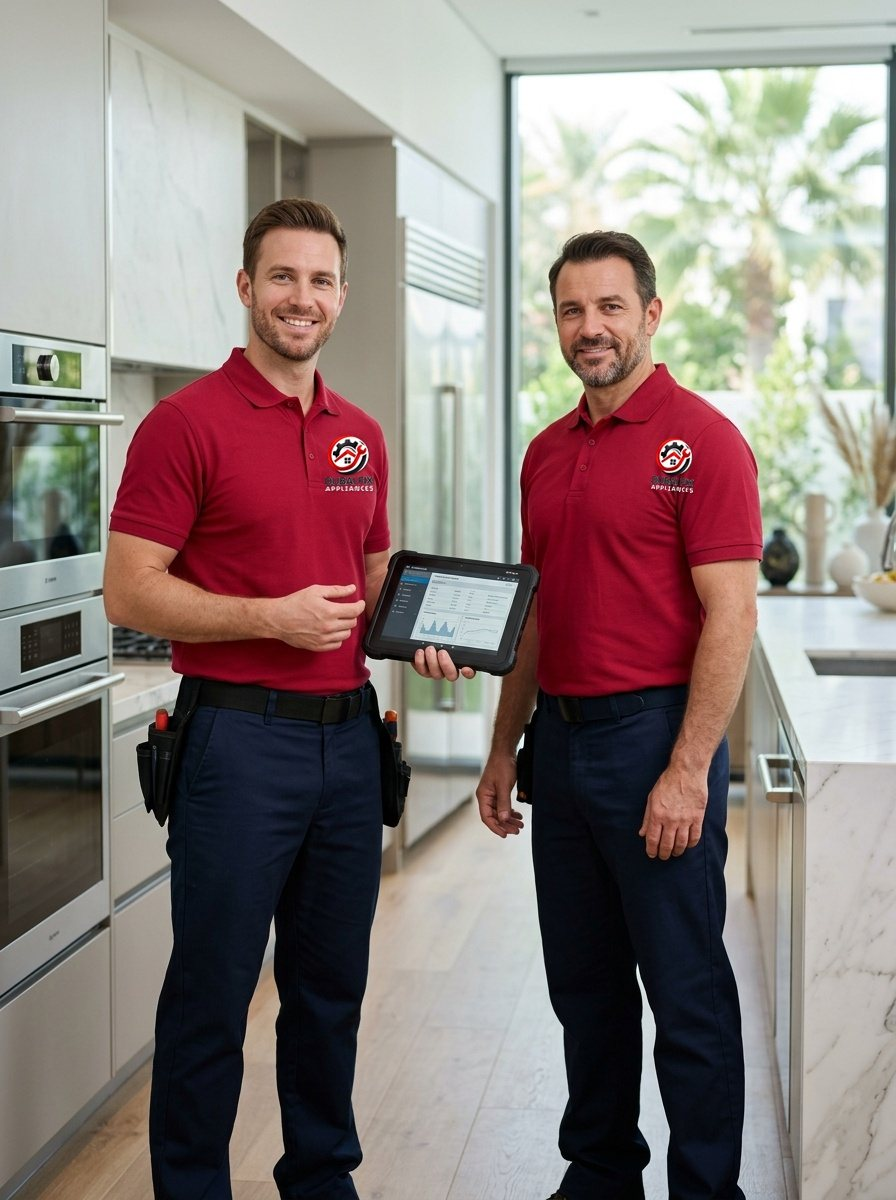
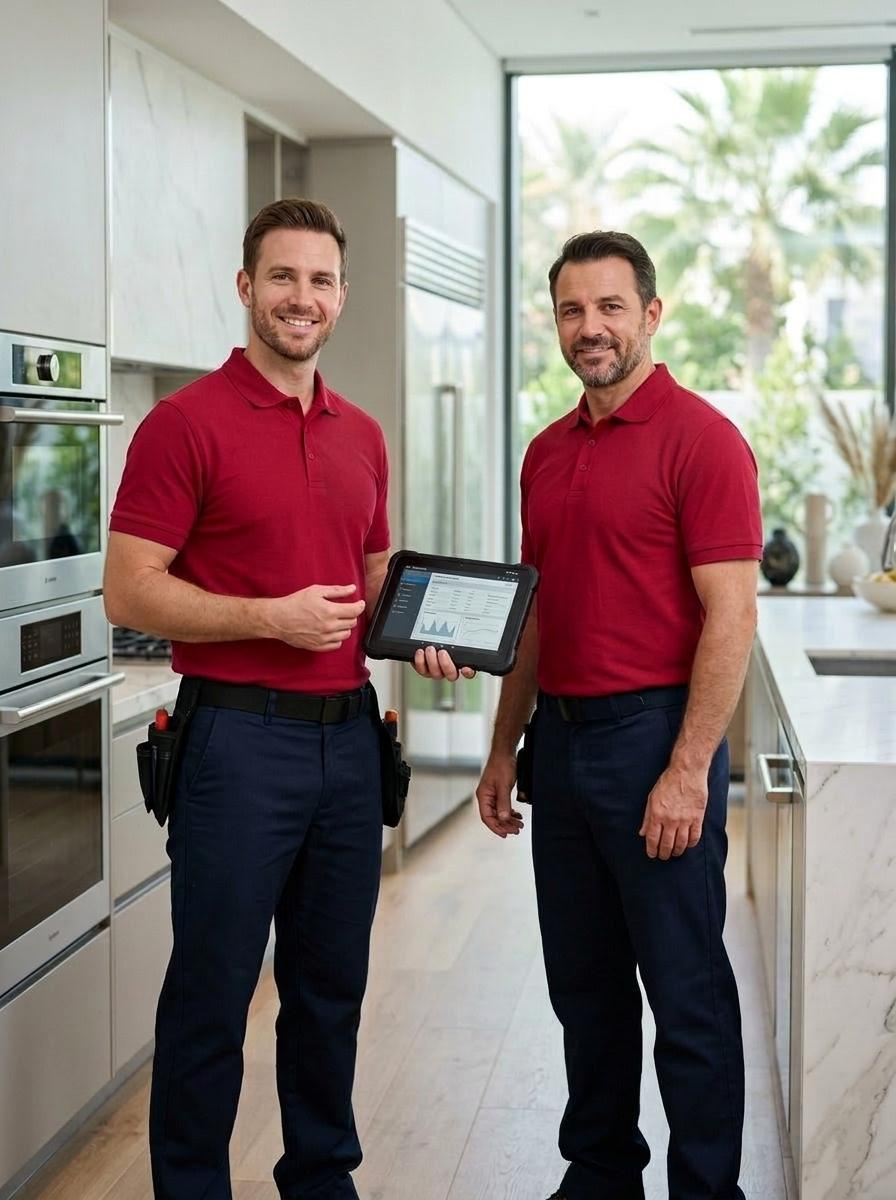
fix(portfolio): apply Option 2 sleek modern open-stroke directional arrow to hero secondary CTA

Changed region(s): [[0.3438, 0.3392, 0.4375, 0.4317], [0.7188, 0.37, 0.7812, 0.4317]]

diff --git a/styles.css b/styles.css
@@ -158,20 +158,11 @@ body {
   border-color: #e3e7e9;
   box-shadow: 0 12px 32px -4px rgba(0, 0, 0, 0.12);
 }
-/* Top viewport scroll mask: seamlessly covers the 14px gap above floating navbar so text never bleeds through */
-body::before {
-  content: "";
-  position: fixed;
-  top: 0;
-  left: 0;
-  right: 0;
-  height: 14px;
-  background-color: var(--bg-canvas, #fbfbfe);
-  z-index: 999;
-  pointer-events: none;
-}
+/* Top viewport scroll mask removed: eliminates top space and scroll cutting */
+body::before,
 body.dark-theme::before {
-  background-color: #0f1315;
+  content: none !important;
+  display: none !important;
 }
 body.dark-theme .navbar {
   background: rgba(23, 28, 31, 0.88);
@@ -872,7 +863,7 @@ body.dark-theme .dropdown-divider {
   transition: color 0.42s cubic-bezier(0.25, 0.46, 0.45, 0.94) !important;
 }
 
-.btn-hero-secondary svg {
+.btn-hero-secondary svg:not(.btn-arrow-icon) {
   color: #16a34a;
   stroke: #16a34a;
   fill: currentColor;
@@ -887,11 +878,61 @@ body.dark-theme .dropdown-divider {
 .btn-hero-secondary:hover > span {
   color: #ffffff !important;
 }
-.btn-hero-secondary:hover svg {
+.btn-hero-secondary:hover svg:not(.btn-arrow-icon) {
   animation: none !important;
   color: #ffffff !important;
   fill: #ffffff !important;
   stroke: #ffffff !important;
+}
+
+/* Option 2 Standard: Sleek Modern Open-Stroke Directional Arrow (Clean & Minimal, No Circle) */
+.btn-hero-secondary .btn-arrow-icon,
+.btn-hero-secondary svg.btn-arrow-icon,
+.btn-arrow-icon {
+  width: 15px !important;
+  height: 15px !important;
+  min-width: 15px !important;
+  min-height: 15px !important;
+  color: #16a34a !important;
+  stroke: #16a34a !important;
+  fill: none !important;
+  stroke-width: 2.2 !important;
+  display: inline-block !important;
+  vertical-align: middle !important;
+  flex-shrink: 0 !important;
+  position: relative !important;
+  z-index: 3 !important;
+  animation: none !important;
+  transform: none !important;
+  transform-origin: center center !important;
+  transition:
+    transform 0.45s cubic-bezier(0.25, 0.46, 0.45, 0.94),
+    stroke 0.38s cubic-bezier(0.25, 0.46, 0.45, 0.94),
+    color 0.38s cubic-bezier(0.25, 0.46, 0.45, 0.94) !important;
+}
+
+.btn-hero-secondary:hover .btn-arrow-icon,
+.btn-hero-secondary:hover svg.btn-arrow-icon {
+  color: #ffffff !important;
+  stroke: #ffffff !important;
+  fill: none !important;
+  transform: translateX(4px) !important;
+  animation: none !important;
+}
+
+body.dark-theme .btn-hero-secondary .btn-arrow-icon,
+body.dark-theme .btn-hero-secondary svg.btn-arrow-icon {
+  color: #25d366 !important;
+  stroke: #25d366 !important;
+  fill: none !important;
+}
+
+body.dark-theme .btn-hero-secondary:hover .btn-arrow-icon,
+body.dark-theme .btn-hero-secondary:hover svg.btn-arrow-icon {
+  color: #ffffff !important;
+  stroke: #ffffff !important;
+  fill: none !important;
+  transform: translateX(4px) !important;
 } /* ==========================================================================   Universal Button Animation & Interaction Suite (Hero-Quality Everywhere)   ========================================================================== */ /* Zero Idle Float Animation Standard: Buttons sit grounded, calm, and stable without floating */
 @keyframes primaryButtonPulseLoop {
   0%, 50%, 100% {
@@ -973,7 +1014,7 @@ body.dark-theme .dropdown-divider {
 /* Master Synchronized Ambient Phone Vibration on all Phone Icon Buttons */
 .btn-schedule svg,
 .nav-menu-schedule-btn svg,
-.btn-hero-secondary svg,
+.btn-hero-secondary svg:not(.btn-arrow-icon),
 .btn-hero-action-call svg,
 .btn-about-secondary svg,
 .btn-dispatch-call svg,
@@ -1016,7 +1057,7 @@ button[id*="phone"] svg {
 /* Responsive Active Ring Vibration on Hover */
 .btn-schedule:hover svg,
 .nav-menu-schedule-btn:hover svg,
-.btn-hero-secondary:hover svg,
+.btn-hero-secondary:hover svg:not(.btn-arrow-icon),
 .btn-hero-action-call:hover svg,
 .btn-about-secondary:hover svg,
 .btn-dispatch-call:hover svg,
@@ -8013,11 +8054,27 @@ body.dark-theme .prefooter-cta-overlay {
   flex-shrink: 0;
   transition: all 0.25s ease;
 }
-.footer-contact-item:hover .footer-contact-icon {
+.footer-contact-item:has(.contact-link):hover .footer-contact-icon {
   background-color: #ffffff;
   border-color: #ffffff;
   color: var(--brand-accent);
   transform: scale(1.08);
+}
+.footer-contact-item.footer-contact-static,
+.footer-contact-item.footer-contact-static .footer-contact-icon,
+.footer-contact-item.footer-contact-static .contact-value,
+.footer-contact-item:not(:has(.contact-link)),
+.footer-contact-item:not(:has(.contact-link)) .footer-contact-icon,
+.footer-contact-item:not(:has(.contact-link)) .contact-value {
+  cursor: default;
+}
+.footer-contact-item.footer-contact-static:hover .footer-contact-icon,
+.footer-contact-item:not(:has(.contact-link)):hover .footer-contact-icon {
+  background-color: rgba(255, 255, 255, 0.12) !important;
+  border-color: rgba(255, 255, 255, 0.2) !important;
+  color: #ffffff !important;
+  transform: none !important;
+  cursor: default !important;
 }
 .footer-contact-info {
   display: flex;
@@ -11490,7 +11547,7 @@ body.dark-theme .btn-about-secondary span:not(.btn-circle) {
   color: #25d366 !important;
   transition: color 0.42s cubic-bezier(0.25, 0.46, 0.45, 0.94) !important;
 }
-body.dark-theme .btn-hero-secondary svg,
+body.dark-theme .btn-hero-secondary svg:not(.btn-arrow-icon),
 body.dark-theme .btn-about-secondary svg {
   color: #25d366;
   stroke: #25d366;
@@ -11507,7 +11564,7 @@ body.dark-theme .btn-about-secondary:hover {
     color 0.42s cubic-bezier(0.25, 0.46, 0.45, 0.94),
     border-color 0.45s cubic-bezier(0.25, 0.46, 0.45, 0.94) !important;
 }
-body.dark-theme .btn-hero-secondary:hover svg,
+body.dark-theme .btn-hero-secondary:hover svg:not(.btn-arrow-icon),
 body.dark-theme .btn-about-secondary:hover svg {
   color: #ffffff !important;
   fill: currentColor !important;
@@ -11875,10 +11932,19 @@ body.dark-theme .footer-contact-icon {
   border: 1px solid rgba(255, 255, 255, 0.08);
   color: #ff5a52;
 }
-body.dark-theme .footer-contact-item:hover .footer-contact-icon {
+body.dark-theme .footer-contact-item:has(.contact-link):hover .footer-contact-icon {
   background: var(--btn-gradient-primary);
   border-color: rgba(255, 255, 255, 0.25);
   color: #ffffff;
+}
+body.dark-theme .footer-contact-item.footer-contact-static:hover .footer-contact-icon,
+body.dark-theme .footer-contact-item:not(:has(.contact-link)):hover .footer-contact-icon {
+  background: #171c1f !important;
+  background-color: #171c1f !important;
+  border-color: rgba(255, 255, 255, 0.08) !important;
+  color: #ff5a52 !important;
+  transform: none !important;
+  cursor: default !important;
 }
 body.dark-theme .contact-label {
   color: #e2e8f0;

diff --git a/portfolio.html b/portfolio.html
@@ -225,12 +225,12 @@
                   </svg>
                 </span>
               </a>
-              <a href="#portfolio-grid" class="btn-hero-secondary">
+              <a href="#portfolio-grid" class="btn-hero-secondary" aria-label="Explore Case Studies">
                 <span class="btn-circle btn-circle-1" aria-hidden="true"></span><span class="btn-circle btn-circle-2" aria-hidden="true"></span><span class="btn-circle btn-circle-3" aria-hidden="true"></span><span class="btn-circle btn-circle-4" aria-hidden="true"></span><span class="btn-circle btn-circle-5" aria-hidden="true"></span>
                 <span>Explore Case Studies</span>
-                <svg width="16" height="16" viewBox="0 0 24 24" fill="none" stroke="currentColor" stroke-width="2.6" stroke-linecap="round" stroke-linejoin="round">
+                <svg class="btn-arrow-icon" width="15" height="15" viewBox="0 0 24 24" fill="none" stroke="currentColor" stroke-width="2.2" stroke-linecap="round" stroke-linejoin="round" aria-hidden="true">
                   <line x1="5" y1="12" x2="19" y2="12"></line>
-                  <polyline points="12 5 19 12 12 19"></polyline>
+                  <polyline points="13 6 19 12 13 18"></polyline>
                 </svg>
               </a>
             </div>
@@ -1166,7 +1166,7 @@
               <div class="footer-col-accent-bar" aria-hidden="true"></div>
               
               <ul class="footer-contact-list">
-                <li class="footer-contact-item">
+                <li class="footer-contact-item footer-contact-static">
                   <div class="footer-contact-icon" aria-hidden="true">
                     <svg width="17" height="17" viewBox="0 0 24 24" fill="none" stroke="currentColor" stroke-width="2.2" stroke-linecap="round" stroke-linejoin="round">
                       <path d="M21 10c0 7-9 13-9 13s-9-6-9-13a9 9 0 0 1 18 0z"></path>

diff --git a/service-dishwasher.html b/service-dishwasher.html
@@ -1995,7 +1995,7 @@
               <div class="footer-col-accent-bar" aria-hidden="true"></div>
               
               <ul class="footer-contact-list">
-                <li class="footer-contact-item">
+                <li class="footer-contact-item footer-contact-static">
                   <div class="footer-contact-icon" aria-hidden="true">
                     <svg width="17" height="17" viewBox="0 0 24 24" fill="none" stroke="currentColor" stroke-width="2.2" stroke-linecap="round" stroke-linejoin="round">
                       <path d="M21 10c0 7-9 13-9 13s-9-6-9-13a9 9 0 0 1 18 0z"></path>

diff --git a/service-dryer.html b/service-dryer.html
@@ -1995,7 +1995,7 @@
               <div class="footer-col-accent-bar" aria-hidden="true"></div>
               
               <ul class="footer-contact-list">
-                <li class="footer-contact-item">
+                <li class="footer-contact-item footer-contact-static">
                   <div class="footer-contact-icon" aria-hidden="true">
                     <svg width="17" height="17" viewBox="0 0 24 24" fill="none" stroke="currentColor" stroke-width="2.2" stroke-linecap="round" stroke-linejoin="round">
                       <path d="M21 10c0 7-9 13-9 13s-9-6-9-13a9 9 0 0 1 18 0z"></path>

diff --git a/service-microwave.html b/service-microwave.html
@@ -1995,7 +1995,7 @@
               <div class="footer-col-accent-bar" aria-hidden="true"></div>
               
               <ul class="footer-contact-list">
-                <li class="footer-contact-item">
+                <li class="footer-contact-item footer-contact-static">
                   <div class="footer-contact-icon" aria-hidden="true">
                     <svg width="17" height="17" viewBox="0 0 24 24" fill="none" stroke="currentColor" stroke-width="2.2" stroke-linecap="round" stroke-linejoin="round">
                       <path d="M21 10c0 7-9 13-9 13s-9-6-9-13a9 9 0 0 1 18 0z"></path>

diff --git a/service-oven.html b/service-oven.html
@@ -1995,7 +1995,7 @@
               <div class="footer-col-accent-bar" aria-hidden="true"></div>
               
               <ul class="footer-contact-list">
-                <li class="footer-contact-item">
+                <li class="footer-contact-item footer-contact-static">
                   <div class="footer-contact-icon" aria-hidden="true">
                     <svg width="17" height="17" viewBox="0 0 24 24" fill="none" stroke="currentColor" stroke-width="2.2" stroke-linecap="round" stroke-linejoin="round">
                       <path d="M21 10c0 7-9 13-9 13s-9-6-9-13a9 9 0 0 1 18 0z"></path>

diff --git a/service-refrigerator.html b/service-refrigerator.html
@@ -2084,7 +2084,7 @@
               <div class="footer-col-accent-bar" aria-hidden="true"></div>
               
               <ul class="footer-contact-list">
-                <li class="footer-contact-item">
+                <li class="footer-contact-item footer-contact-static">
                   <div class="footer-contact-icon" aria-hidden="true">
                     <svg width="17" height="17" viewBox="0 0 24 24" fill="none" stroke="currentColor" stroke-width="2.2" stroke-linecap="round" stroke-linejoin="round">
                       <path d="M21 10c0 7-9 13-9 13s-9-6-9-13a9 9 0 0 1 18 0z"></path>

diff --git a/service-stove.html b/service-stove.html
@@ -1995,7 +1995,7 @@
               <div class="footer-col-accent-bar" aria-hidden="true"></div>
               
               <ul class="footer-contact-list">
-                <li class="footer-contact-item">
+                <li class="footer-contact-item footer-contact-static">
                   <div class="footer-contact-icon" aria-hidden="true">
                     <svg width="17" height="17" viewBox="0 0 24 24" fill="none" stroke="currentColor" stroke-width="2.2" stroke-linecap="round" stroke-linejoin="round">
                       <path d="M21 10c0 7-9 13-9 13s-9-6-9-13a9 9 0 0 1 18 0z"></path>

diff --git a/service-washing-machine.html b/service-washing-machine.html
@@ -2041,7 +2041,7 @@
               <div class="footer-col-accent-bar" aria-hidden="true"></div>
               
               <ul class="footer-contact-list">
-                <li class="footer-contact-item">
+                <li class="footer-contact-item footer-contact-static">
                   <div class="footer-contact-icon" aria-hidden="true">
                     <svg width="17" height="17" viewBox="0 0 24 24" fill="none" stroke="currentColor" stroke-width="2.2" stroke-linecap="round" stroke-linejoin="round">
                       <path d="M21 10c0 7-9 13-9 13s-9-6-9-13a9 9 0 0 1 18 0z"></path>

diff --git a/services.html b/services.html
@@ -1400,7 +1400,7 @@
               <div class="footer-col-accent-bar" aria-hidden="true"></div>
               
               <ul class="footer-contact-list">
-                <li class="footer-contact-item">
+                <li class="footer-contact-item footer-contact-static">
                   <div class="footer-contact-icon" aria-hidden="true">
                     <svg width="17" height="17" viewBox="0 0 24 24" fill="none" stroke="currentColor" stroke-width="2.2" stroke-linecap="round" stroke-linejoin="round">
                       <path d="M21 10c0 7-9 13-9 13s-9-6-9-13a9 9 0 0 1 18 0z"></path>

diff --git a/blog.html b/blog.html
@@ -590,7 +590,7 @@
               <div class="footer-col-accent-bar" aria-hidden="true"></div>
               
               <ul class="footer-contact-list">
-                <li class="footer-contact-item">
+                <li class="footer-contact-item footer-contact-static">
                   <div class="footer-contact-icon" aria-hidden="true">
                     <svg width="17" height="17" viewBox="0 0 24 24" fill="none" stroke="currentColor" stroke-width="2.2" stroke-linecap="round" stroke-linejoin="round">
                       <path d="M21 10c0 7-9 13-9 13s-9-6-9-13a9 9 0 0 1 18 0z"></path>

diff --git a/about.html b/about.html
@@ -4311,7 +4311,7 @@
               <div class="footer-col-accent-bar" aria-hidden="true"></div>
 
               <ul class="footer-contact-list">
-                <li class="footer-contact-item">
+                <li class="footer-contact-item footer-contact-static">
                   <div class="footer-contact-icon" aria-hidden="true">
                     <svg width="17" height="17" viewBox="0 0 24 24" fill="none" stroke="currentColor" stroke-width="2.2" stroke-linecap="round" stroke-linejoin="round">
                       <path d="M21 10c0 7-9 13-9 13s-9-6-9-13a9 9 0 0 1 18 0z"></path>
